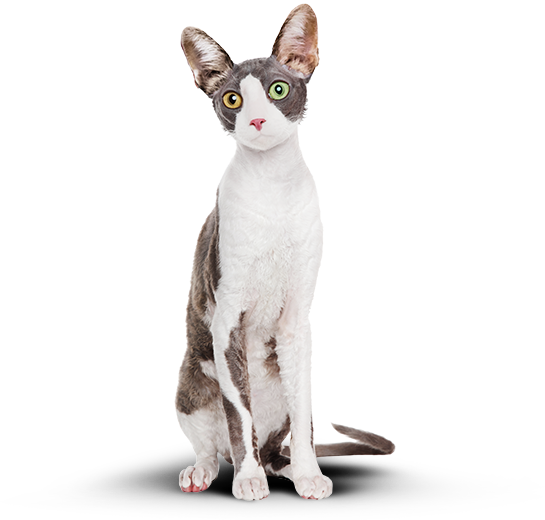
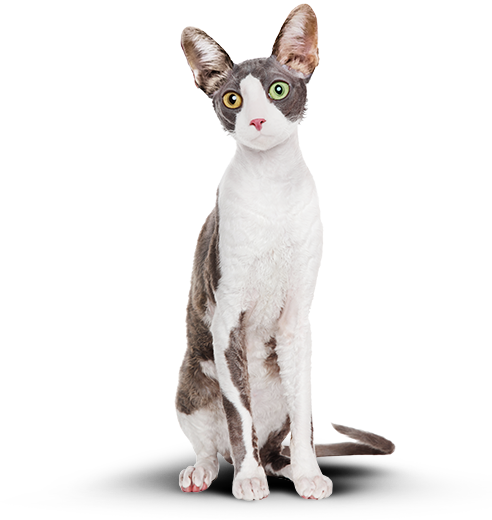
corrects styles for demo-presentation block

Changed region(s): [[0.2439, 0.0, 0.8232, 0.9846]]

diff --git a/source/less/blocks/demo.less b/source/less/blocks/demo.less
@@ -140,7 +140,7 @@
 .demo__presentation {
   grid-row: ~"1 / -1";
   grid-column: ~"2 / 3";
-  align-self: end;
+  // align-self: end;
 
   @media (min-width: @medium-width) {
     padding-bottom: 33px;
@@ -161,6 +161,10 @@
   justify-self: center;
   line-height: 0;
   overflow: hidden;
+
+  @media (min-width: @large-width) {
+    transform: translateX(20px);
+  }
 }
 
 .demo__image-box img {
@@ -170,10 +174,15 @@
 
 .demo__image-box--before {
   // transform: translateX(-70px);
-  transform: translateX(calc(-1 * var(--cat-before-width) / 4)); // на 1/4 ширины
+  // transform: translateX(calc(-1 * var(--cat-before-width) / 4)); // на 1/4 ширины
+  transform: translateX(calc(-1 * var(--cat-before-width) / 4 + 20px)); // на 1/4 ширины
 
   @media (min-width: @medium-width) {
     --cat-before-width: 677px;
+  }
+
+  @media (min-width: @large-width) {
+    --cat-before-width: 650px;
   }
 }
 
@@ -187,10 +196,15 @@
 
 .demo__image-box--after {
   // transform: translateX(62.75px);
-  transform: translateX(calc(var(--cat-after-width) / 4));
+  // transform: translateX(calc(var(--cat-after-width) / 4));
+  transform: translateX(calc(var(--cat-after-width) / 4 + 20px));
 
   @media (min-width: @medium-width) {
-    --cat-after-width: 545px;
+    --cat-after-width: 492px;
+  }
+
+  @media (min-width: @large-width) {
+    --cat-after-width: 422px;
   }
 }
 

diff --git a/source/index.html b/source/index.html
@@ -120,14 +120,14 @@
           <div class="demo__image-container">
             <div class="demo__image-box demo__image-box--before">
               <picture>
-                <!-- <source media="(min-width: 1440px)" srcset="img/cat-before-desktop.png 1x, img/cat-before-desktop@2x.png 2x"> -->
+                <source media="(min-width: 1440px)" srcset="img/cat-before-desktop.png 1x, img/cat-before-desktop@2x.png 2x">
                 <source media="(min-width: 768px)" srcset="img/cat-before-tablet.png 1x, img/cat-before-tablet@2x.png 2x">
                 <img class="demo__image" src="img/cat-before-mobile.png" srcset="img/cat-before-mobile@2x.png 2x" alt="Вид кота до">
               </picture>
             </div>
             <div class="demo__image-box demo__image-box--after">
               <picture>
-                <!-- <source media="(min-width: 1440px)" srcset="img/cat-after-desktop.png 1x, img/cat-after-desktop@2x.png 2x"> -->
+                <source media="(min-width: 1440px)" srcset="img/cat-after-desktop.png 1x, img/cat-after-desktop@2x.png 2x">
                 <source media="(min-width: 768px)" srcset="img/cat-after-tablet.png 1x, img/cat-after-tablet@2x.png 2x">
                 <img class="demo__image" src="img/cat-after-mobile.png" srcset="img/cat-after-mobile@2x.png 2x" alt="Вид кота после">
               </picture>

diff --git a/source/less/blocks/slider.less b/source/less/blocks/slider.less
@@ -13,6 +13,10 @@
     grid-template-columns: auto 26px 1fr 21px auto;
     padding: 10px 0 31px;
   }
+
+  @media (min-width: @large-width) {
+    padding-top: 31px;
+  }
 }
 
 .slider__label {
